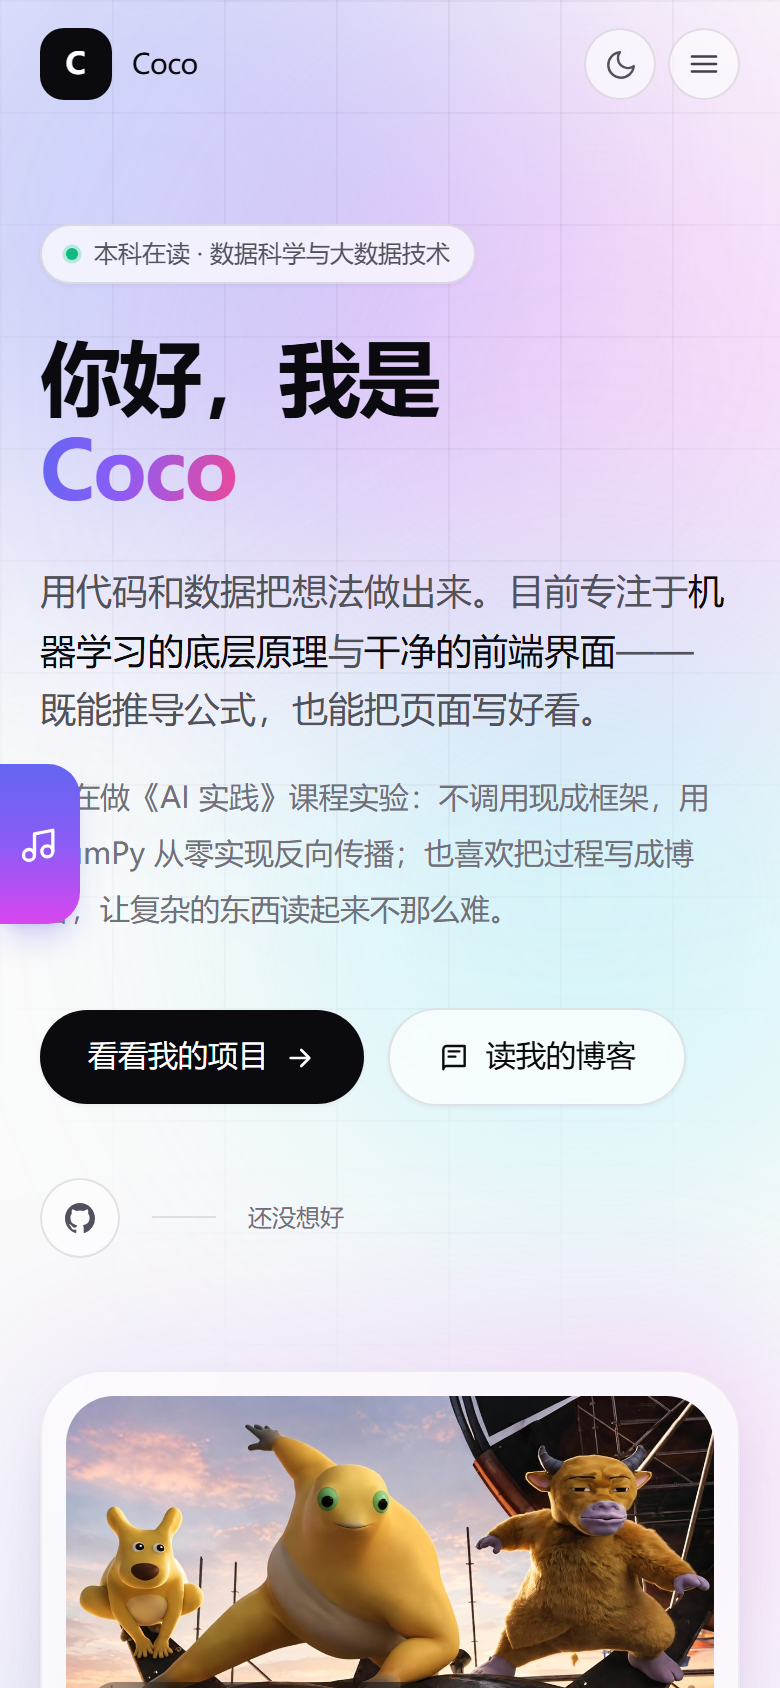
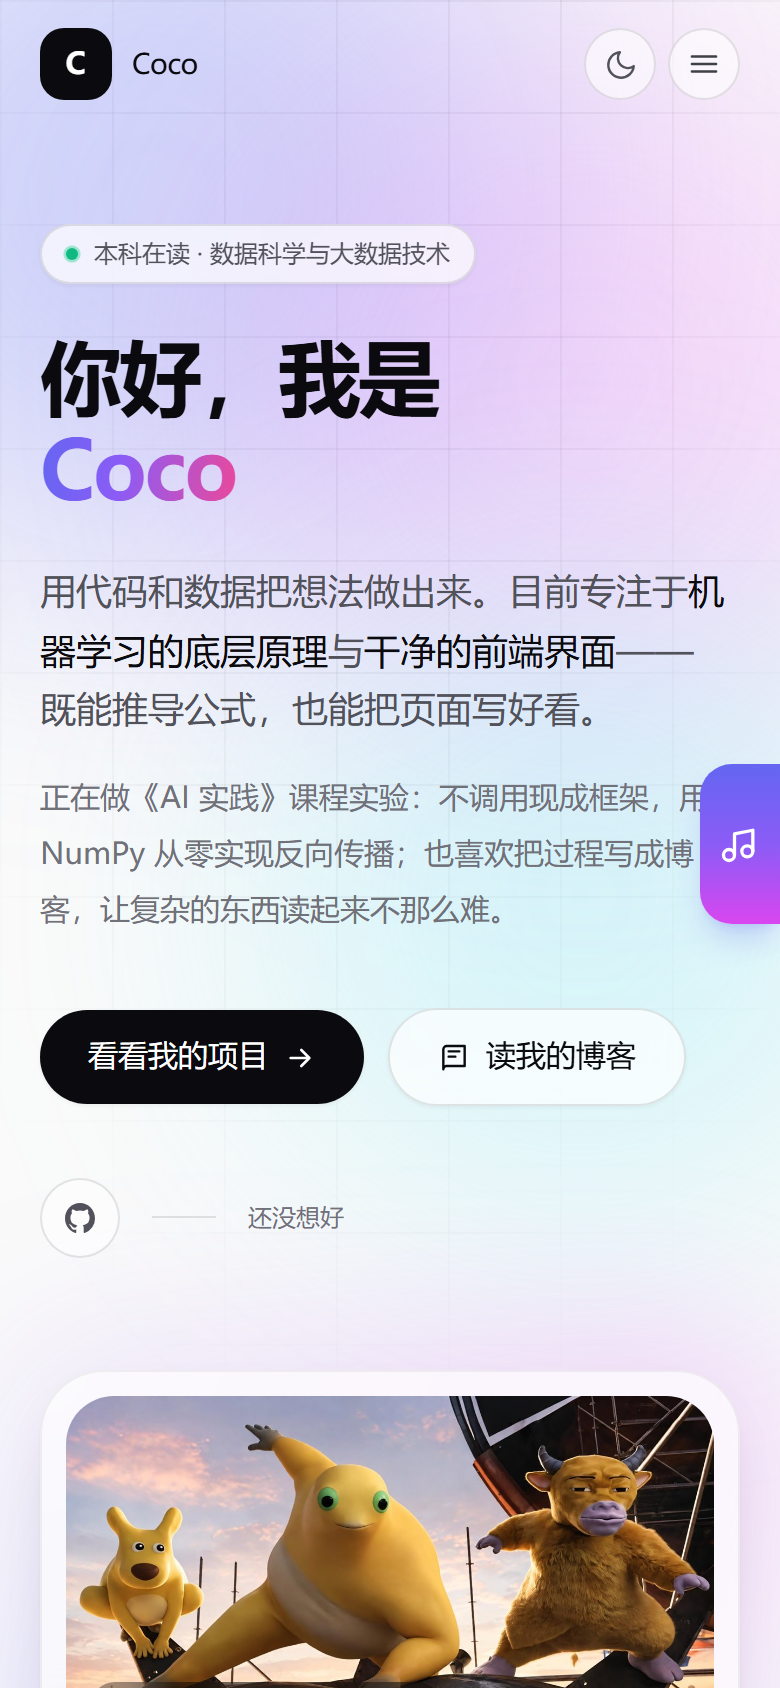
feat: 播放器抽屉移到右侧中部
- 把手 right-0 + rounded-l-2xl，hover 向左变宽
- 面板 right-0 + rounded-l-[1.75rem] + border-r-0
- mp-in 关键帧改为从右侧滑出（translateX(40px)、origin right）
- 收起图标换成新增的 IconChevronRight
- 同步更新 README 说明与截图

Changed region(s): [[0.8923, 0.4313, 1.0, 0.5545], [0.0, 0.4313, 0.1231, 0.5545]]

diff --git a/src/components/MusicPlayer.jsx b/src/components/MusicPlayer.jsx
@@ -1,7 +1,7 @@
 import { useCallback, useEffect, useRef, useState } from 'react'
 import { PLAYLIST_URL, fetchLyrics, fetchPlaylist, formatTime } from '../lib/meting.js'
 import {
-  IconChevronLeft,
+  IconChevronRight,
   IconList,
   IconMusic,
   IconNext,
@@ -267,30 +267,30 @@ export default function MusicPlayer() {
         onError={onError}
       />
 
-      {/* 收起态：贴在左侧中间的抽屉把手 */}
+      {/* 收起态：贴在右侧中间的抽屉把手 */}
       {!open && (
         <button
           type="button"
           onClick={openPanel}
           aria-label="打开音乐播放器"
           title="音乐"
-          className="group fixed left-0 top-1/2 z-50 flex h-20 w-10 -translate-y-1/2 items-center justify-center rounded-r-2xl bg-gradient-to-b from-indigo-500 via-violet-500 to-fuchsia-500 text-white shadow-lg shadow-indigo-500/25 transition-all duration-300 hover:w-[3.15rem] hover:shadow-xl hover:shadow-fuchsia-500/30 focus:outline-none focus-visible:ring-2 focus-visible:ring-indigo-400 focus-visible:ring-offset-2 focus-visible:ring-offset-white sm:h-24 sm:w-11 dark:focus-visible:ring-offset-ink"
+          className="group fixed right-0 top-1/2 z-50 flex h-20 w-10 -translate-y-1/2 items-center justify-center rounded-l-2xl bg-gradient-to-b from-indigo-500 via-violet-500 to-fuchsia-500 text-white shadow-lg shadow-indigo-500/25 transition-all duration-300 hover:w-[3.15rem] hover:shadow-xl hover:shadow-fuchsia-500/30 focus:outline-none focus-visible:ring-2 focus-visible:ring-indigo-400 focus-visible:ring-offset-2 focus-visible:ring-offset-white sm:h-24 sm:w-11 dark:focus-visible:ring-offset-ink"
         >
           {playing && (
-            <span className="absolute inset-0 rounded-r-2xl bg-fuchsia-300/25 mp-handle-pulse" aria-hidden="true" />
+            <span className="absolute inset-0 rounded-l-2xl bg-fuchsia-300/25 mp-handle-pulse" aria-hidden="true" />
           )}
           <IconMusic className="relative h-[22px] w-[22px]" />
         </button>
       )}
 
-      {/* 展开态：从左侧拉出的大面板 */}
+      {/* 展开态：从右侧拉出的大面板 */}
       {open && (
         <div
           role="region"
           aria-label="音乐播放器"
-          className="fixed left-0 top-1/2 z-50 -translate-y-1/2"
+          className="fixed right-0 top-1/2 z-50 -translate-y-1/2"
         >
-          <div className="mp-in thin-scroll max-h-[calc(100dvh-1.5rem)] w-[min(92vw,420px)] overflow-y-auto rounded-r-[1.75rem] border border-l-0 border-black/[0.07] bg-white/95 shadow-[0_28px_80px_-24px_rgba(9,9,11,0.45)] backdrop-blur-xl dark:border-white/10 dark:bg-[#0d0d11]/95 dark:shadow-black/70">
+          <div className="mp-in thin-scroll max-h-[calc(100dvh-1.5rem)] w-[min(92vw,420px)] overflow-y-auto rounded-l-[1.75rem] border border-r-0 border-black/[0.07] bg-white/95 shadow-[0_28px_80px_-24px_rgba(9,9,11,0.45)] backdrop-blur-xl dark:border-white/10 dark:bg-[#0d0d11]/95 dark:shadow-black/70">
             {/* 顶部：标签 + 歌单 + 收起 */}
             <div className="flex items-center justify-between px-5 pb-1 pt-4">
               <span className="text-[10px] font-semibold uppercase tracking-[0.2em] text-zinc-400 dark:text-zinc-500">
@@ -316,7 +316,7 @@ export default function MusicPlayer() {
                   aria-label="收起播放器"
                   className="grid h-8 w-8 place-items-center rounded-full text-zinc-500 transition hover:bg-black/5 hover:text-ink dark:text-zinc-400 dark:hover:bg-white/10 dark:hover:text-white"
                 >
-                  <IconChevronLeft className="h-[17px] w-[17px]" />
+                  <IconChevronRight className="h-[17px] w-[17px]" />
                 </button>
               </div>
             </div>

diff --git a/src/index.css b/src/index.css
@@ -136,11 +136,11 @@ html.dark .nav-solid {
   animation: mp-handle-pulse 2.6s ease-in-out infinite;
 }
 
-/* 面板从左侧拉出 */
+/* 面板从右侧拉出 */
 @keyframes mp-in {
   from {
     opacity: 0;
-    transform: translateX(-40px) scale(0.97);
+    transform: translateX(40px) scale(0.97);
   }
   to {
     opacity: 1;
@@ -149,7 +149,7 @@ html.dark .nav-solid {
 }
 
 .mp-in {
-  transform-origin: left center;
+  transform-origin: right center;
   animation: mp-in 0.36s cubic-bezier(0.22, 1, 0.36, 1);
 }
 

diff --git a/src/components/Icons.jsx b/src/components/Icons.jsx
@@ -215,3 +215,11 @@ export function IconChevronLeft({ className = 'h-4 w-4' }) {
     </svg>
   )
 }
+
+export function IconChevronRight({ className = 'h-4 w-4' }) {
+  return (
+    <svg {...stroke} className={className}>
+      <path d="m9.5 6 6 6-6 6" />
+    </svg>
+  )
+}

diff --git a/README.md b/README.md
@@ -37,13 +37,14 @@ public/.nojekyll            GitHub Pages 用，别删
 
 ## 音乐播放器
 
-贴在页面**左侧中间**的紫色抽屉把手，点一下从左边拉出面板（`MusicPlayer.jsx`）：
+贴在页面**右侧中间**的紫色抽屉把手，点一下从右边拉出面板（`MusicPlayer.jsx`）：
 
-- 收起态：左边缘居中的小把手，播放中会轻微呼吸；点开即从左侧滑出
+- 收起态：右边缘居中的小把手，播放中会轻微呼吸；点开即从右侧滑出
 - 展开态：420px 宽的大卡片（移动端 92vw），封面 190px、三行滚动歌词、进度条、上一首/播放/下一首、音量
 - 点右上角「列表」切到歌单，可看全部 37 首并直接点播，点「返回播放」或再拉出面板会回到播放界面
 - 收起后音乐继续播；`Esc` 也能收起
 - 歌单与音频来自 `https://api.qijieya.cn/meting/`，换歌单只改 `src/lib/meting.js` 里的 `PLAYLIST_ID`
+- 想换边：把把手 / 面板容器上的 `right-0` 与 `left-0`、`rounded-l-*` 与 `rounded-r-*`、`border-r-0` 与 `border-l-0` 成对调换，再把 `index.css` 里 `mp-in` 的 `translateX(40px)` 改成 `-40px`、`transform-origin` 改成 `left center`
 
 首屏那张插画想换：直接覆盖 `src/assets/hero-monster.jpg` 即可，**任何比例的照片都能用** —— 容器是 `aspect-[9/5]` + `object-cover`，图片会等比铺满、不会被拉伸；比例和 9:5 差太多的部分会被居中裁掉。想让照片完整露出来，就把 `Hero.jsx` 里 img 的 `aspect-[9/5]` 改成接近照片比例的值（例如竖图用 `aspect-[4/5]`）。
 
